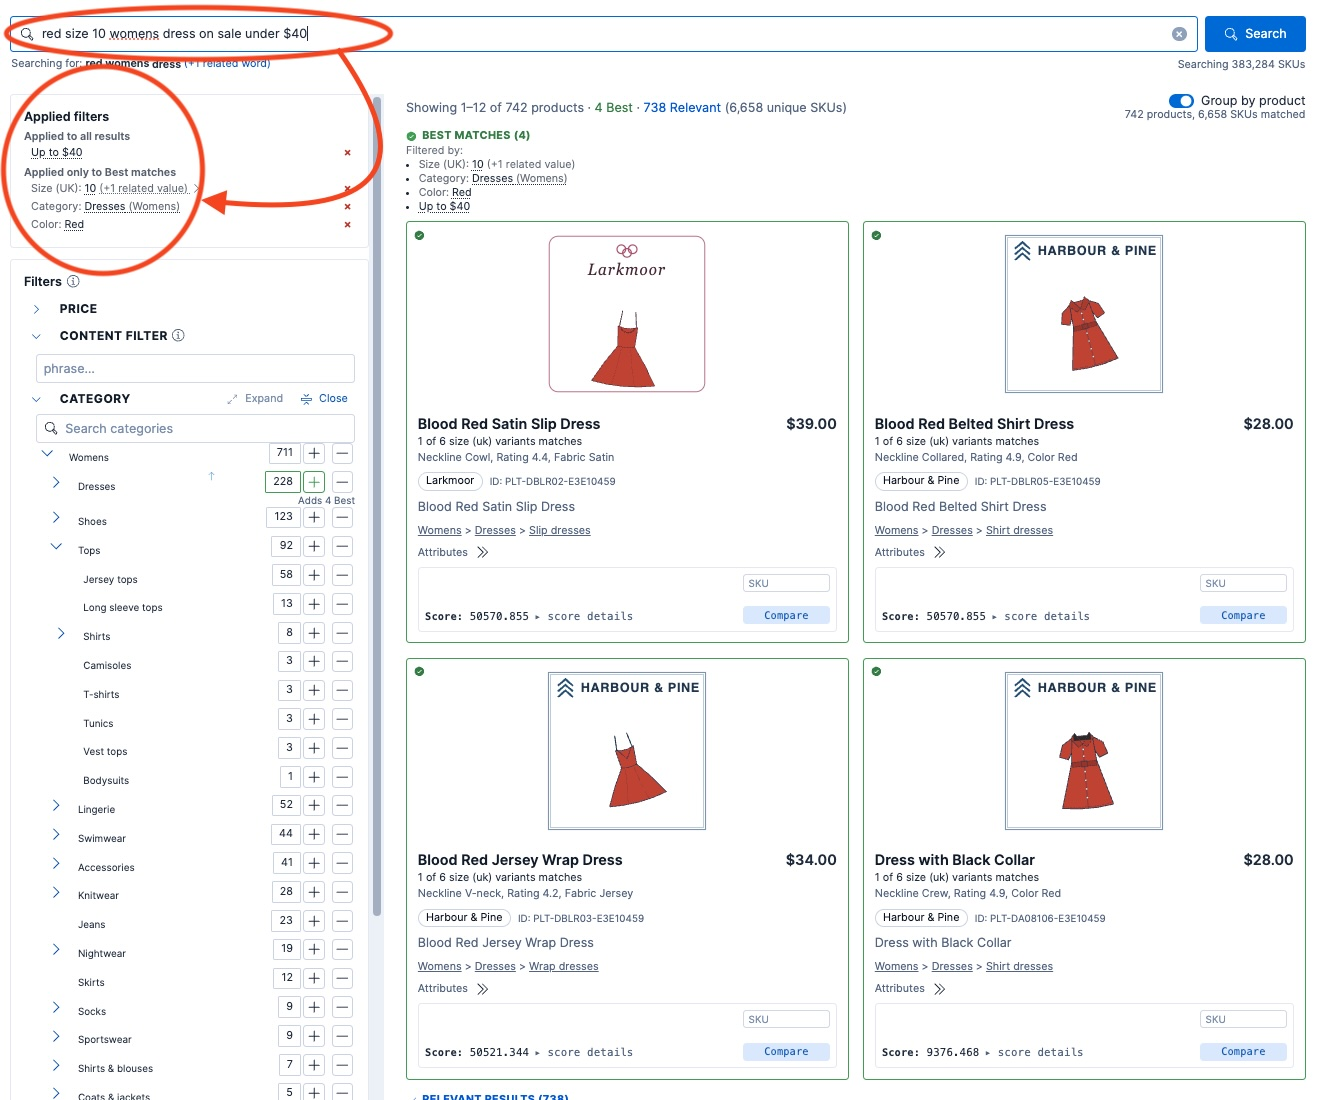
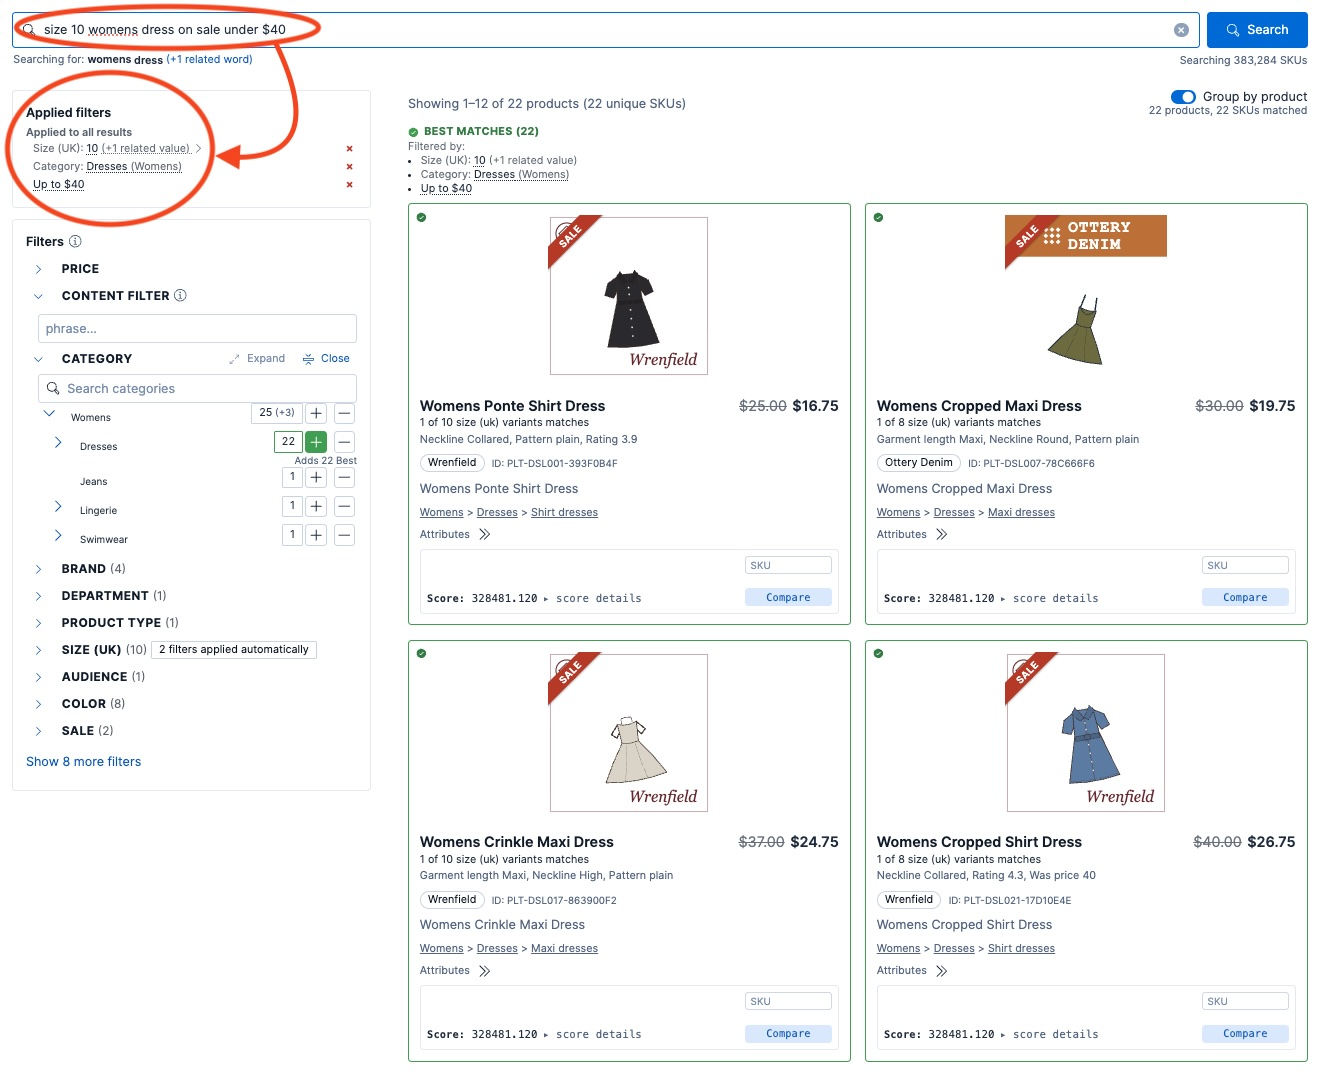
Use the size 10 womens dress query and screenshot

diff --git a/content/ai-tools/single-developer-work-of-200-engineers/index.md b/content/ai-tools/single-developer-work-of-200-engineers/index.md
@@ -13,15 +13,15 @@ description: "The methodology behind one developer running a fleet of Claude Cod
 
 Try this on a few large e-commerce sites. Search for:
 
-> red size 10 womens dress on sale under $40
+> size 10 womens dress on sale under $40
 
-You will not find many that get it right. The usual results treat the query as a bag of words: red shoes, size 10 trousers, dresses that are not on sale or cost more than $40, or nothing at all. Few work out that "red" is a colour, "size 10" is a size, "womens dress" is a category, "on sale" is a promotion and "under $40" is a price limit, and then act on each one.
+You will not find many that get it right. The usual results treat the query as a bag of words: size 10 shoes, women's trousers, dresses that are not on sale or cost more than $40, or nothing at all. Few work out that "size 10" is a size, "womens dress" is a category, "on sale" is a promotion and "under $40" is a price limit, and then act on each one.
 
-This article is about the development of an e-commerce query interpretation layer, built on top of Elasticsearch, that solves this problem. It reads what the shopper typed and turns it into filters: for the above query, the colour Red, size 10, the category Women's › Dresses and a price of up to $40. The shopper does not have to find and click a single filter. The layer is demonstrated on a synthetic catalogue of about 380,000 SKUs across retail and industrial departments.
+This article is about the development of an e-commerce query interpretation layer, built on top of Elasticsearch, that solves this problem. It reads what the shopper typed and turns it into filters: for the above query, size 10, the category Women's › Dresses and a price of up to $40. The shopper does not have to find and click a single filter. The layer is demonstrated on a synthetic catalogue of about 380,000 SKUs across retail and industrial departments.
 
 I have written about its design in [a series of articles on Elastic Search Labs](https://www.elastic.co/search-labs/blog/ecommerce-search-governance-control-plane-architecture). Those articles cover what it does. This one covers how it was built: the workflow behind it.
 
-![Search results for "red size 10 womens dress on sale under $40", with size 10, Womens › Dresses, Red and up to $40 applied as filters](images/filtered-results.jpg)
+![Search results for "size 10 womens dress on sale under $40", with size 10, Womens › Dresses and up to $40 applied as filters](images/filtered-results.jpg)
 
 *The query above on the demo catalogue. The circled filters were applied automatically, from the text the shopper typed.*
 
